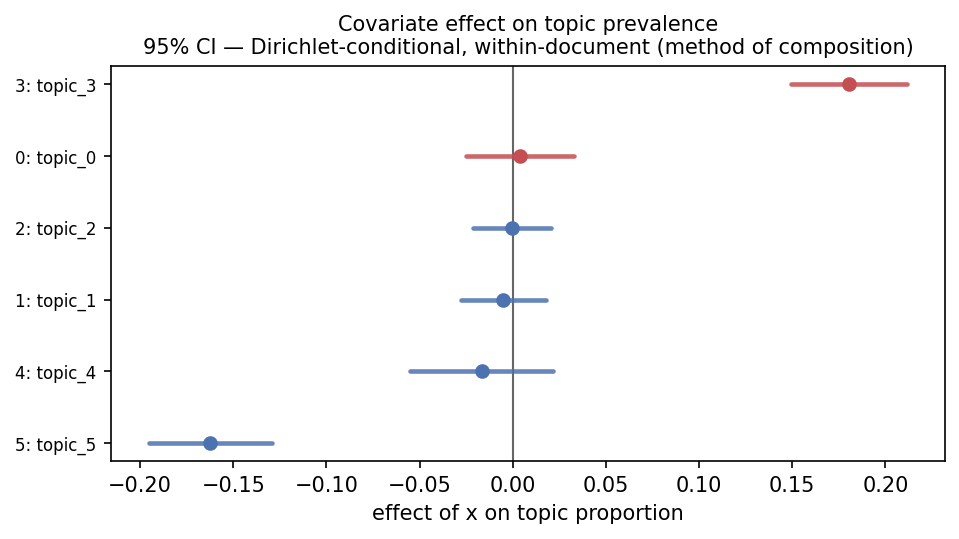
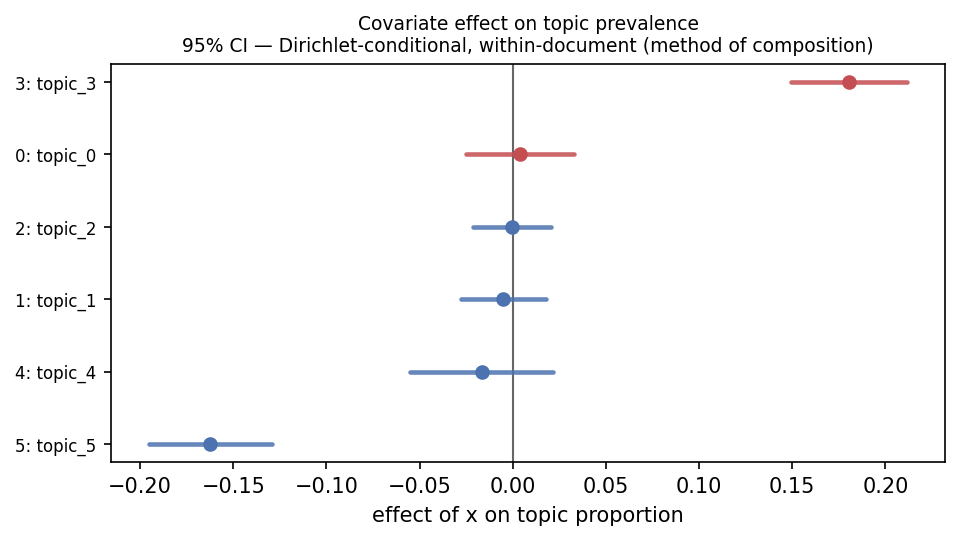
viz: address review (vector dashboard, prob-only overlay, vectorized JS, +)
Fixes from the topica.viz review:

1. Term-barchart corpus overlay is drawn (and exported) only in mode="prob",
   where it is commensurable; frex/lift/relevance live on another scale.
2. Dashboard composes via real subfigures + each panel's _draw(fig), so
   .to_png("report.pdf") stays vector with selectable text (was a 98 KB embedded
   bitmap). Refactored the Panel contract to _draw(fig)/_figsize().
3. Vectorized the K x K Jensen-Shannon distance (one numpy pass per row instead
   of an O(K^2) Python double loop with a per-element KL lambda).
4. Coherence-frontier exclusivity axis gets headroom + a "values near 1" note
   when the spread is tiny, so a 0.001 difference no longer fills the panel.
5. dashboard.to_html embeds the Altair chart with fullhtml=False (no nested
   full <html> document).
6. The "corpus overall" overlay is the prevalence-weighted marginal
   p(w) = sum_t p(t) p(w|t), not the unweighted topic mean.
7. The effect-plot point-estimate caveat is stronger for degenerate-theta
   (cluster) models: it warns the points rest on near-one-hot theta.

Tests: tests/test_viz.py grows to 11 (overlay gating, JS is a valid metric,
dashboard PDF is vector). Full suite 1039 passed / 1 skipped, mkdocs --strict
clean.

diff --git a/python/topica/viz/terms.py b/python/topica/viz/terms.py
@@ -65,11 +65,17 @@ class TermBarchart(Panel):
         self.mode = mode
         self.n = n
         self._words = _scored_words(model, self.topic, mode, n, self.cap)
-        # corpus-frequency overlay: the topic-averaged weight of each shown word
-        phi = _topic_word(model)
-        vocab = {w: i for i, w in enumerate(model.vocabulary)}
-        marg = phi.mean(axis=0)
-        self._overlay = [float(marg[vocab[w]]) if w in vocab else 0.0 for w, _ in self._words]
+        # Corpus-frequency overlay: the prevalence-weighted marginal
+        # p(w) = sum_t p(t) p(w|t). Only meaningful in "prob" mode -- frex / lift /
+        # relevance live on a different (non-probability) scale, so an overlay of
+        # p(w) ~ 0.02 against frex in [0, 1] would be a meaningless sliver.
+        self._overlay = None
+        if mode == "prob":
+            phi = _topic_word(model)
+            vocab = {w: i for i, w in enumerate(model.vocabulary)}
+            theta = np.asarray(model.doc_topic, dtype=np.float64)
+            pw = theta.mean(axis=0) @ phi
+            self._overlay = [float(pw[vocab[w]]) if w in vocab else 0.0 for w, _ in self._words]
         self._inclusion = None
         if error_bars:
             from ..effects import standard_errors
@@ -84,37 +90,33 @@ class TermBarchart(Panel):
 
         rows = []
         for i, (w, val) in enumerate(self._words):
-            row = {"topic": self.topic, "rank": i, "word": w,
-                   "weight": val, "corpus_weight": self._overlay[i]}
+            row = {"topic": self.topic, "rank": i, "word": w, "weight": val}
+            if self._overlay is not None:
+                row["corpus_weight"] = self._overlay[i]
             if self._inclusion is not None and self._inclusion[i] is not None:
                 p, lo, hi = self._inclusion[i]
                 row.update(inclusion_prob=p, inclusion_low=lo, inclusion_high=hi)
             rows.append(row)
         return pd.DataFrame(rows)
 
-    def _figure(self, *, figsize=None, ax=None):
-        plt = _require("matplotlib.pyplot", "viz")
+    def _figsize(self):
+        return (5.5, max(2.2, 0.34 * len(self._words) + 1.0))
 
+    def _draw(self, fig):
         words = [w for w, _ in self._words][::-1]
         vals = [v for _, v in self._words][::-1]
-        overlay = self._overlay[::-1]
         y = np.arange(len(words))
-        if figsize is None:
-            figsize = (5.5, max(2.2, 0.34 * len(words) + 1.0))
-        if ax is None:
-            fig, ax = plt.subplots(figsize=figsize)
-        else:
-            fig = ax.figure
+        ax = fig.subplots()
         ax.barh(y, vals, color=_DARK, height=0.7, label="in topic", zorder=2)
-        ax.barh(y, overlay, color=_LIGHT, height=0.7, label="corpus overall", zorder=1)
+        if self._overlay is not None:
+            ax.barh(y, self._overlay[::-1], color=_LIGHT, height=0.7,
+                    label="corpus overall", zorder=1)
+            ax.legend(fontsize=7, loc="lower right")
         ax.set_yticks(y)
         ax.set_yticklabels(words, fontsize=8)
         label = self.cap.word_weight_label if self.mode == "prob" else self.mode
         ax.set_xlabel(label)
-        ax.set_title(f"Topic {self.topic} — {self.mode}")
-        ax.legend(fontsize=7, loc="lower right")
-        fig.tight_layout()
-        return fig
+        ax.set_title(f"Topic {self.topic} — {self.mode}", fontsize=10)
 
 
 def _topic_distance(model, cap):
@@ -124,13 +126,17 @@ def _topic_distance(model, cap):
     k = phi.shape[0]
     if cap.prob_simplex_words:
         p = phi / np.clip(phi.sum(axis=1, keepdims=True), 1e-12, None)
+        # Vectorized over the inner pair: JS(p,q) = H(m) - (H(p)+H(q))/2, one numpy
+        # pass per row (O(K) Python iterations, not O(K^2) with a per-element KL).
+        ent = lambda a: -(a * np.log(np.clip(a, 1e-12, None))).sum(axis=-1)
+        h = ent(p)  # (K,) per-topic entropy
         d = np.zeros((k, k))
         for i in range(k):
-            for j in range(i + 1, k):
-                m = 0.5 * (p[i] + p[j])
-                kl = lambda a: np.sum(np.where(a > 0, a * np.log(np.clip(a / m, 1e-12, None)), 0.0))
-                js = 0.5 * kl(p[i]) + 0.5 * kl(p[j])
-                d[i, j] = d[j, i] = np.sqrt(max(js, 0.0))
+            m = 0.5 * (p[i] + p)            # (K, V)
+            js = ent(m) - 0.5 * (h[i] + h)  # (K,)
+            d[i] = np.sqrt(np.clip(js, 0.0, None))
+        d = 0.5 * (d + d.T)                 # symmetrize away float drift
+        np.fill_diagonal(d, 0.0)
         return d, "sqrt Jensen-Shannon"
     norm = phi / np.clip(np.linalg.norm(phi, axis=1, keepdims=True), 1e-12, None)
     d = 1.0 - norm @ norm.T
@@ -177,24 +183,21 @@ class TopicSimilarity(Panel):
         labels = [f'{t}: {self._labels[t] if t < len(self._labels) else t}' for t in order]
         return pd.DataFrame(sim[np.ix_(order, order)], index=labels, columns=labels)
 
-    def _figure(self, *, figsize=None):
-        plt = _require("matplotlib.pyplot", "viz")
+    def _figsize(self):
+        return (max(4.0, 0.4 * len(self._order) + 1.5),) * 2
 
+    def _draw(self, fig):
         order = self._order
         k = len(order)
         sim = (1.0 - self._dist)[np.ix_(order, order)]
-        if figsize is None:
-            figsize = (max(4.0, 0.4 * k + 1.5),) * 2
-        fig, ax = plt.subplots(figsize=figsize)
+        ax = fig.subplots()
         im = ax.imshow(sim, cmap="viridis", vmin=sim.min(), vmax=1.0)
         ax.set_xticks(range(k))
         ax.set_yticks(range(k))
         ax.set_xticklabels([str(t) for t in order], fontsize=7, rotation=90)
         ax.set_yticklabels([str(t) for t in order], fontsize=7)
-        ax.set_title(f"{self.title} (1 − {self.metric}, seriated)")
+        ax.set_title(f"{self.title} (1 − {self.metric}, seriated)", fontsize=10)
         fig.colorbar(im, ax=ax, fraction=0.046, pad=0.04, label="similarity")
-        fig.tight_layout()
-        return fig
 
 
 def term_topic_browser(model, *, n=10, mode="prob"):

diff --git a/python/topica/viz/dashboard.py b/python/topica/viz/dashboard.py
@@ -43,29 +43,31 @@ class Dashboard:
         """A dict of ``{panel_name: DataFrame}``."""
         return {name: p.to_frame() for name, p in self.panels.items()}
 
-    def _png_bytes(self, panel, **kw):
-        fig = panel._figure(**kw)
+    def _order(self):
+        return [k for k in ("effect", "frontier", "similarity", "terms") if k in self.panels]
+
+    def _png_bytes(self, panel, *, fmt="png"):
+        plt = _require("matplotlib.pyplot", "viz")
+        fig = panel._figure()
         buf = io.BytesIO()
-        fig.savefig(buf, format="png", dpi=150, bbox_inches="tight")
-        _require("matplotlib.pyplot", "viz").close(fig)
+        fig.savefig(buf, format=fmt, dpi=150, bbox_inches="tight")
+        plt.close(fig)
         return buf.getvalue()
 
     def to_png(self, path: str | None = None, *, dpi: int = 150):
-        """Stack the static panels vertically into one matplotlib figure."""
+        """Compose the static panels into one figure with real subfigures, so the
+        result stays vector (selectable text) for ``.pdf`` / ``.svg`` output."""
         plt = _require("matplotlib.pyplot", "viz")
-        import matplotlib.image as mpimg
 
-        order = [k for k in ("effect", "frontier", "similarity", "terms") if k in self.panels]
-        imgs = [mpimg.imread(io.BytesIO(self._png_bytes(self.panels[k]))) for k in order]
-        heights = [im.shape[0] for im in imgs]
-        widths = [im.shape[1] for im in imgs]
-        w = max(widths)
-        fig = plt.figure(figsize=(w / 150, sum(heights) / 150))
-        gs = fig.add_gridspec(len(imgs), 1, height_ratios=heights, hspace=0.04)
-        for i, im in enumerate(imgs):
-            ax = fig.add_subplot(gs[i])
-            ax.imshow(im)
-            ax.axis("off")
+        panels = [self.panels[k] for k in self._order()]
+        heights = [p._figsize()[1] for p in panels]
+        width = max(p._figsize()[0] for p in panels)
+        fig = plt.figure(figsize=(width, sum(heights)), constrained_layout=True)
+        subfigs = fig.subfigures(len(panels), 1, height_ratios=heights)
+        if len(panels) == 1:
+            subfigs = [subfigs]
+        for sf, panel in zip(subfigs, panels):
+            panel._draw(sf)
         if path is not None:
             fig.savefig(path, dpi=dpi, bbox_inches="tight")
         return fig
@@ -74,7 +76,7 @@ class Dashboard:
         """A self-contained HTML report: the interactive term/heatmap browser plus
         the static panels embedded as images."""
         chart = term_topic_browser(self.model, n=n, mode=mode)
-        chart_html = chart.to_html()
+        chart_html = chart.to_html(fullhtml=False)  # an embed fragment, not a full doc
         blocks = []
         for name in ("effect", "frontier"):
             if name in self.panels:

diff --git a/python/topica/viz/quality.py b/python/topica/viz/quality.py
@@ -6,7 +6,7 @@ adds the ``.to_frame()`` data export and a clean publication figure.
 
 from __future__ import annotations
 
-from .base import Panel, _require
+from .base import Panel
 from .capability import capabilities
 
 
@@ -44,15 +44,14 @@ class CoherenceFrontier(Panel):
             "prevalence": q["prevalence"],
         })
 
-    def _figure(self, *, ax=None, figsize=(6.0, 5.0)):
-        plt = _require("matplotlib.pyplot", "viz")
+    def _figsize(self):
+        return (6.0, 5.0)
+
+    def _draw(self, fig):
         import numpy as np
 
         df = self.to_frame()
-        if ax is None:
-            fig, ax = plt.subplots(figsize=figsize)
-        else:
-            fig = ax.figure
+        ax = fig.subplots()
         sizes = 40 + 360 * (df["prevalence"] / max(df["prevalence"].max(), 1e-9))
         ax.scatter(df["coherence"], df["exclusivity"], s=sizes,
                    color="#4C72B0", alpha=0.75, edgecolor="white", linewidth=0.6)
@@ -61,10 +60,17 @@ class CoherenceFrontier(Panel):
                         fontsize=7, ha="center", va="center", color="white")
         ax.set_xlabel(f"Semantic coherence ({self.metric})")
         ax.set_ylabel("Exclusivity")
-        ax.set_title(self.title + " (size ∝ prevalence)")
         ax.ticklabel_format(useOffset=False, style="plain")
-        fig.tight_layout()
-        return fig
+        # Exclusivity often saturates near 1; auto-zoom then makes a 0.001 spread
+        # look dramatic. Give headroom and flag it when the spread is tiny.
+        ex = np.asarray(df["exclusivity"], dtype=float)
+        lo, hi = float(ex.min()), float(ex.max())
+        note = ""
+        if hi - lo < 0.02 and hi > 0.9:
+            pad = max((hi - lo), 1e-3)
+            ax.set_ylim(lo - 3 * pad, min(1.0 + pad, 1.001))
+            note = f"  (exclusivity all near 1: {lo:.3f}–{hi:.3f})"
+        ax.set_title(self.title + " (size ∝ prevalence)" + note, fontsize=10)
 
 
 class SearchK(Panel):
@@ -83,11 +89,12 @@ class SearchK(Panel):
 
         return pd.DataFrame(self._rows)
 
-    def _figure(self, *, figsize=(6.5, 4.5)):
-        plt = _require("matplotlib.pyplot", "viz")
+    def _figsize(self):
+        return (6.5, 4.5)
 
+    def _draw(self, fig):
         df = self.to_frame().sort_values("k")
-        fig, ax = plt.subplots(figsize=figsize)
+        ax = fig.subplots()
         ax.plot(df["k"], df["coherence"], "-o", color="#4C72B0", label="coherence")
         ax.set_xlabel("K (number of topics)")
         ax.set_ylabel("coherence", color="#4C72B0")
@@ -103,6 +110,5 @@ class SearchK(Panel):
             ax3.set_ylabel("held-out perplexity", color="#55A868")
             ax3.tick_params(axis="y", labelcolor="#55A868")
         metric = self._rows[0].get("coherence_metric", "u_mass")
-        ax.set_title(f"{self.title} (coherence = {metric}; higher coherence/exclusivity, lower perplexity)")
-        fig.tight_layout()
-        return fig
+        ax.set_title(f"{self.title} (coherence = {metric}; higher coherence/exclusivity, lower perplexity)",
+                     fontsize=10)

diff --git a/tests/test_viz.py b/tests/test_viz.py
@@ -113,6 +113,31 @@ def test_dashboard_picks_panels_and_exports(covariate_lda):
     assert d.to_png() is not None
 
 
+def test_term_overlay_only_in_prob_mode(covariate_lda):
+    m = covariate_lda[0]
+    prob = viz.term_barchart(m, topic=0, mode="prob", n=4).to_frame()
+    frex = viz.term_barchart(m, topic=0, mode="frex", n=4).to_frame()
+    assert "corpus_weight" in prob.columns          # the overlay is meaningful here
+    assert "corpus_weight" not in frex.columns        # ...and dropped where it is not
+
+
+def test_topic_similarity_is_a_valid_metric(covariate_lda):
+    ts = viz.topic_similarity(covariate_lda[0])
+    d = ts._dist
+    assert np.allclose(d, d.T)                         # symmetric
+    assert np.allclose(np.diag(d), 0.0)                # zero diagonal
+    assert (d >= -1e-9).all()
+
+
+def test_dashboard_png_is_vector_for_pdf(covariate_lda, tmp_path):
+    m, corpus, x, texts = covariate_lda
+    d = viz.dashboard(m, texts, corpus=corpus, X=x[:, None])
+    p = tmp_path / "report.pdf"
+    d.to_png(str(p))
+    # a real vector PDF embeds fonts/text operators, not one giant image
+    assert b"/Font" in p.read_bytes()
+
+
 # --- interactive build (skips if altair absent) ----------------------------
 
 def test_interactive_browser():

diff --git a/python/topica/viz/effect.py b/python/topica/viz/effect.py
@@ -15,7 +15,7 @@ calls for:
 
 from __future__ import annotations
 
-from .base import Panel, _require
+from .base import Panel
 from .capability import capabilities
 
 _POSTERIOR_LABEL = {
@@ -50,9 +50,13 @@ class EffectPlot(Panel):
             )
             self.has_ci = False
             self.uncertainty = "none"
+            degenerate = "" if self.cap.soft_theta else (
+                " — and on near-degenerate (hard cluster) theta, so even the points "
+                "may mislead"
+            )
             self.note = (
-                f"{self.cap.name} has no theta posterior; showing point estimates. "
-                "Pass method='bootstrap' for intervals."
+                f"{self.cap.name} has no theta posterior; showing point estimates"
+                f"{degenerate}. Pass method='bootstrap' for intervals."
             )
         else:
             effects = standard_errors(
@@ -105,17 +109,17 @@ class EffectPlot(Panel):
             })
         return pd.DataFrame(rows)
 
-    def _figure(self, *, figsize=None, sort=True):
+    def _figsize(self):
+        return (6.5, max(2.5, 0.42 * len(self._effects) + 1.2))
+
+    def _draw(self, fig, *, sort=True):
         import numpy as np
 
-        plt = _require("matplotlib.pyplot", "viz")
         df = self.to_frame()
         if sort:
             df = df.sort_values("coef")
         k = len(df)
-        if figsize is None:
-            figsize = (6.5, max(2.5, 0.42 * k + 1.2))
-        fig, ax = plt.subplots(figsize=figsize)
+        ax = fig.subplots()
         y = np.arange(k)
         for i, (_, r) in enumerate(df.iterrows()):
             color = "#C44E52" if r["coef"] >= 0 else "#4C72B0"
@@ -136,6 +140,4 @@ class EffectPlot(Panel):
         unc = _POSTERIOR_LABEL.get(self.uncertainty, self.uncertainty)
         title = f"{self.title}\n{pct}% CI — {unc}" if self.has_ci else \
             f"{self.title}\npoint estimates ({self.note})"
-        ax.set_title(title, fontsize=10)
-        fig.tight_layout()
-        return fig
+        ax.set_title(title, fontsize=9)

diff --git a/python/topica/viz/base.py b/python/topica/viz/base.py
@@ -39,9 +39,23 @@ class Panel:
         """The numbers behind the picture, as a pandas DataFrame."""
         raise NotImplementedError
 
-    def _figure(self, **kwargs):
-        """Build and return a matplotlib ``Figure``."""
+    def _draw(self, fig, **kwargs):
+        """Draw the panel into the given matplotlib ``Figure`` or ``SubFigure``.
+        Must create its own axes inside ``fig`` (so the panel composes into a
+        dashboard's subfigure and stays vector). Does not call ``tight_layout``."""
         raise NotImplementedError
+
+    def _figsize(self):
+        """The standalone figure size (width, height) in inches."""
+        return (6.0, 4.5)
+
+    def _figure(self, *, figsize=None, **kwargs):
+        """Build a standalone ``Figure`` around ``_draw``."""
+        plt = _require("matplotlib.pyplot", "viz")
+        fig = plt.figure(figsize=figsize or self._figsize())
+        self._draw(fig, **kwargs)
+        fig.tight_layout()
+        return fig
 
     def _altair(self, **kwargs):
         raise NotImplementedError(
@@ -51,7 +65,8 @@ class Panel:
     # --- the public renderers -----------------------------------------------
     def to_png(self, path: str | None = None, *, dpi: int = 150, **kwargs):
         """Render to matplotlib. Returns the ``Figure``; also saves to ``path``
-        (``.png`` / ``.pdf`` / ``.svg`` by extension) when given."""
+        (``.png`` / ``.pdf`` / ``.svg`` by extension) when given. Vector formats
+        (``.pdf`` / ``.svg``) stay vector with selectable text."""
         fig = self._figure(**kwargs)
         if path is not None:
             fig.savefig(path, dpi=dpi, bbox_inches="tight")